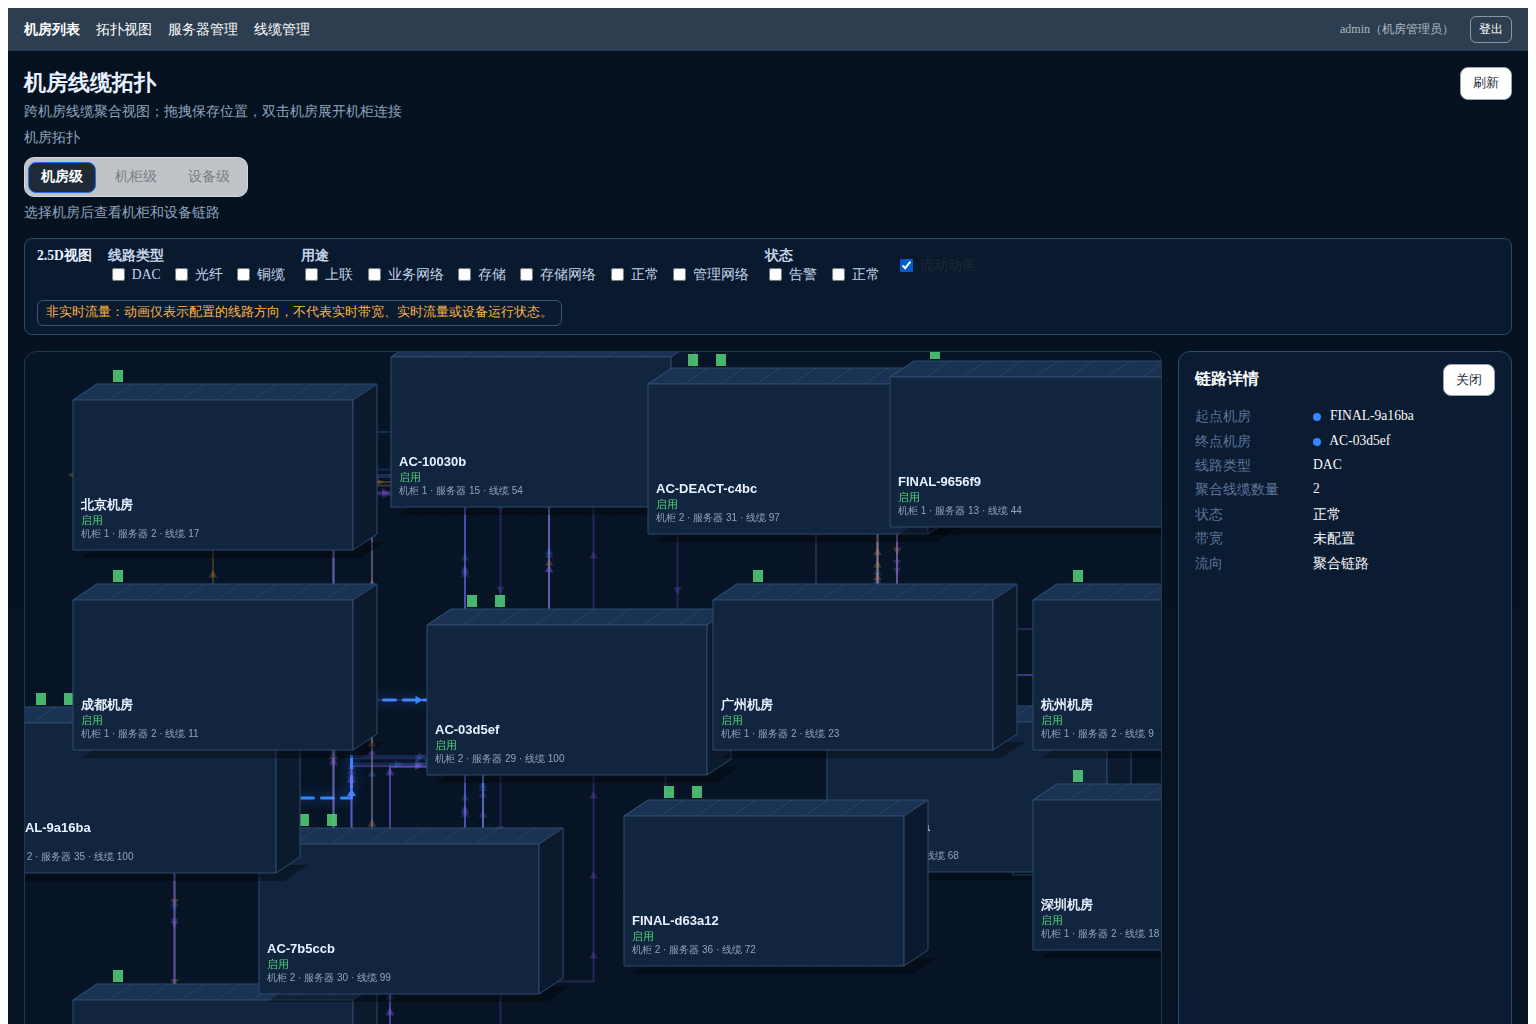
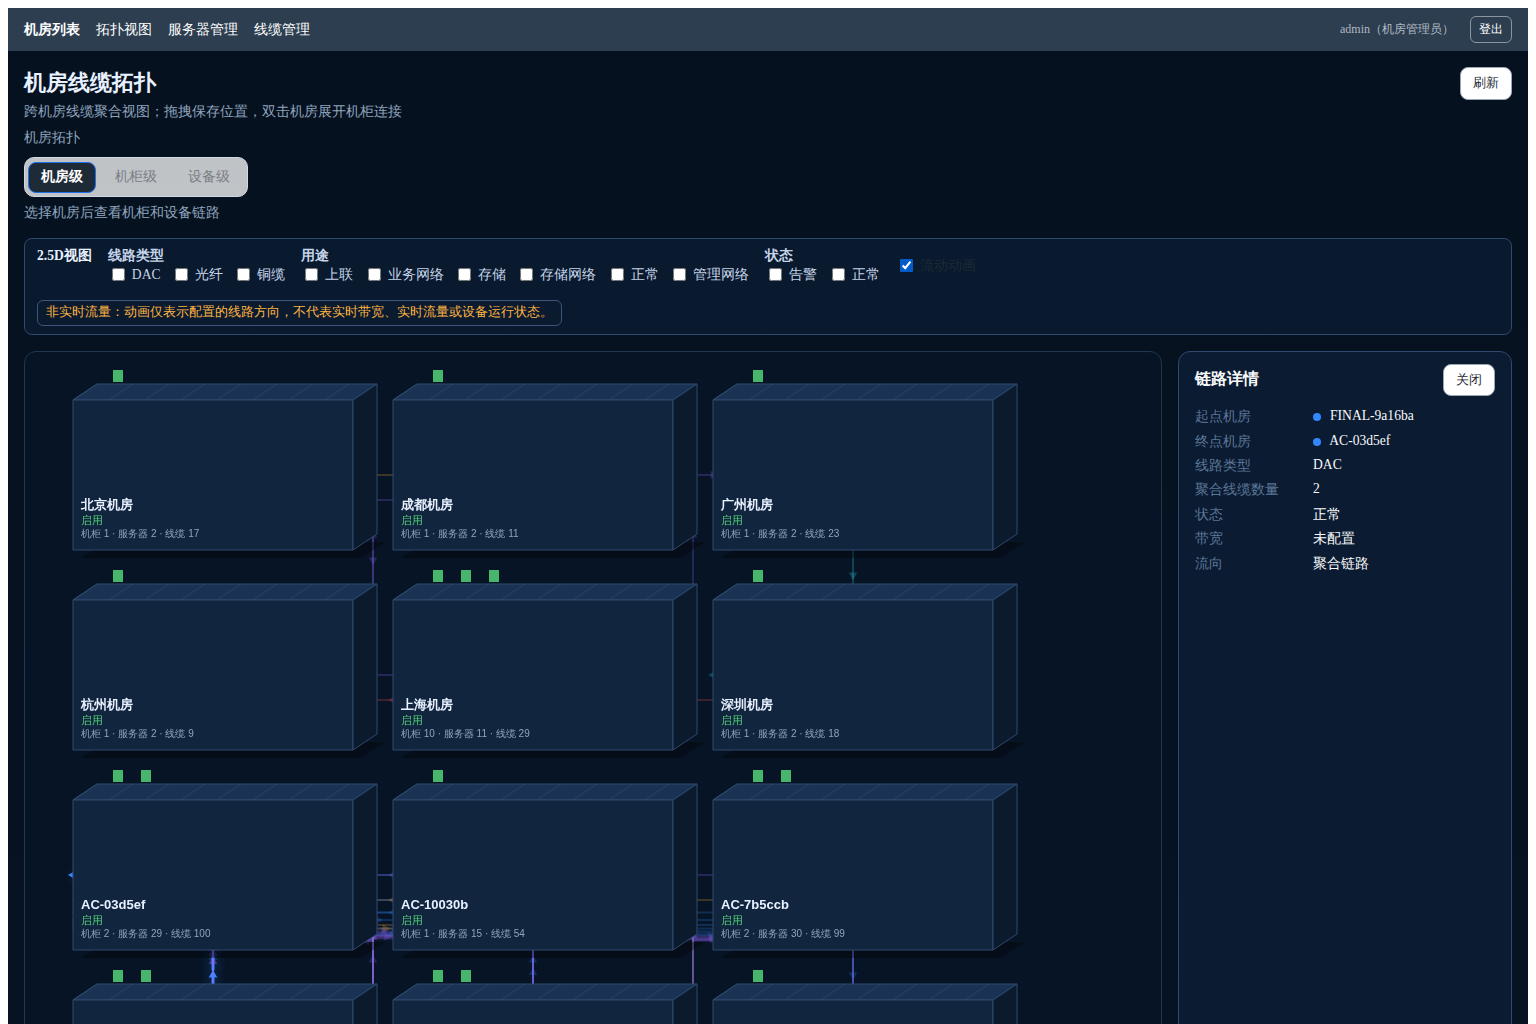
fix: room-level grid layout — fresh grid for all rooms, dynamic column count
- buildRoomGridLayout now places ALL rooms on a clean grid (ignores saved coords)
- Dynamic column count based on room count and canvas width (1536px default)
- Prevents overlap between saved-coordinate and auto-placed rooms
- For 17 rooms: 5 cols × 4 rows, evenly spaced

Changed region(s): [[0.0, 0.3438, 0.7812, 1.0]]

diff --git a/src/frontend/src/composables/useTopology.ts b/src/frontend/src/composables/useTopology.ts
@@ -296,42 +296,36 @@ export interface RoomGridPosition {
   y: number
 }
 
-/** Data-driven grid layout for room nodes (supports >6 rooms). */
+/**
+ * Data-driven grid layout for room nodes.
+ * All rooms are placed on a fresh grid — saved topologyX/topologyY are ignored
+ * for the default layout to prevent overlap. Admin drag-to-save is still supported
+ * but the initial view always shows a clean, evenly-spaced grid.
+ *
+ * Column count adapts to room count and available canvas width (default 1536px).
+ */
 export function buildRoomGridLayout(
   rooms: TopologyRoom[],
   cellW = 320,
   cellH = 200,
   padding = 48,
+  canvasWidth = 1536,
 ): Map<string, { x: number; y: number }> {
   const positions = new Map<string, { x: number; y: number }>()
-  const cols = Math.max(2, Math.ceil(Math.sqrt(rooms.length)))
-  const occupied = new Set<string>()
+  if (rooms.length === 0) return positions
 
-  // First pass: place rooms with saved coordinates, mark their grid cells as occupied
+  // Dynamically pick columns so the grid fits the canvas without excessive scrolling.
+  // Target: 3–6 columns, preferring wider grids for fewer rooms.
+  const maxCols = Math.max(2, Math.floor((canvasWidth - padding * 2) / cellW))
+  const idealCols = Math.ceil(Math.sqrt(rooms.length * (canvasWidth / (cellH * 4))))
+  const cols = Math.min(maxCols, Math.max(2, idealCols))
+
   const sorted = [...rooms].sort((a, b) => a.name.localeCompare(b.name, 'zh-CN'))
-  for (const room of sorted) {
-    if (room.topologyX !== 0 || room.topologyY !== 0) {
-      positions.set(room.id, { x: room.topologyX, y: room.topologyY })
-      // Approximate which cell this position falls into to avoid overlap
-      const col = Math.round((room.topologyX - padding) / cellW)
-      const row = Math.round((room.topologyY - padding) / cellH)
-      if (col >= 0 && row >= 0) occupied.add(`${col},${row}`)
-    }
-  }
-
-  // Second pass: place zero-coordinate rooms, skipping occupied cells
-  let autoIndex = 0
-  for (const room of sorted) {
-    if (room.topologyX !== 0 || room.topologyY !== 0) continue
-    let col: number, row: number
-    do {
-      col = autoIndex % cols
-      row = Math.floor(autoIndex / cols)
-      autoIndex++
-    } while (occupied.has(`${col},${row}`))
+  sorted.forEach((room, index) => {
+    const col = index % cols
+    const row = Math.floor(index / cols)
     positions.set(room.id, { x: padding + col * cellW, y: padding + row * cellH })
-    occupied.add(`${col},${row}`)
-  }
+  })
 
   return positions
 }

diff --git a/src/frontend/src/views/TopologyView.vue b/src/frontend/src/views/TopologyView.vue
@@ -761,7 +761,8 @@ async function fetchCsrf(): Promise<string | null> {
 }
 
 function autoLayoutRooms(rooms: TopologyRoom[]): Map<string, { x: number; y: number }> {
-  return buildRoomGridLayout(rooms)
+  const canvasW = konvaContainer.value?.clientWidth || stageSize.value.width || 1536
+  return buildRoomGridLayout(rooms, 320, 200, 48, canvasW)
 }
 
 function strokeWidthForCount(count: number): number {
